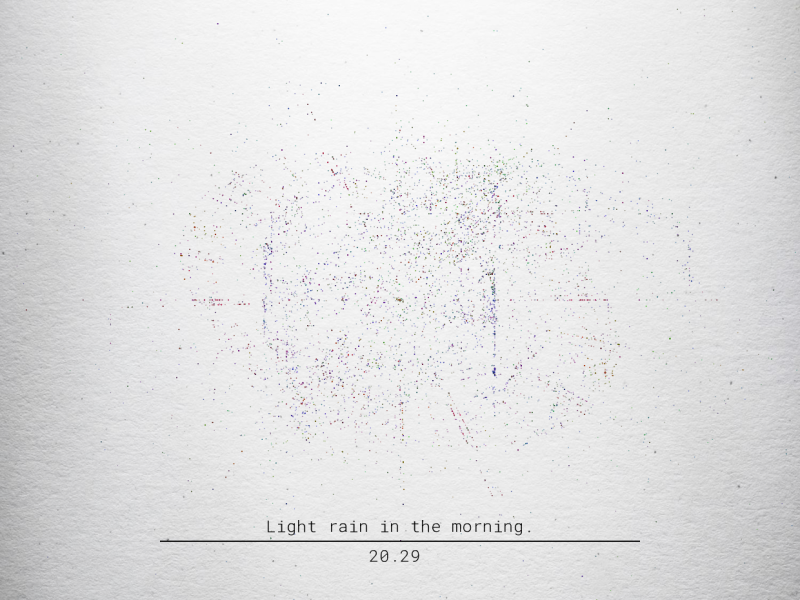
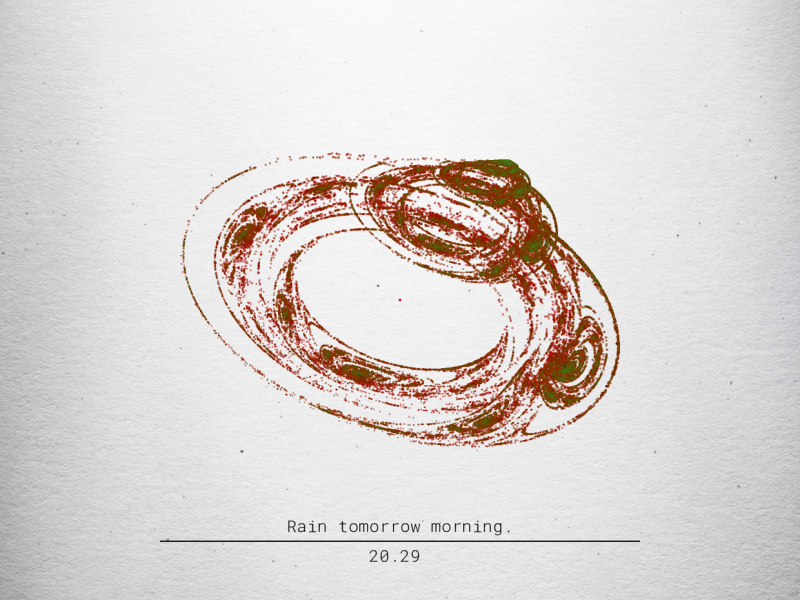
changed back to daily summery

Changed region(s): [[0.2188, 0.24, 0.7812, 0.75], [0.3438, 0.87, 0.6562, 0.9]]

diff --git a/dist/loadWeatherString.js b/dist/loadWeatherString.js
@@ -87,7 +87,7 @@ var loadWeatherString = exports.loadWeatherString = function () {
                     case 5:
                         weather = _context.sent;
                         return _context.abrupt('return', {
-                            summary: weather.daily.data[0].summary,
+                            summary: weather.hourly.summary,
                             tempMin: Math.round(weather.daily.data[0].temperatureLow),
                             tempMax: Math.round(weather.daily.data[0].temperatureHigh),
                             seed: weather.daily.data[0].summary

diff --git a/src/loadWeatherString.js b/src/loadWeatherString.js
@@ -43,7 +43,7 @@ export const loadWeatherString = async ({ lat = 40.3482922, lon = -74.7398824, d
     try {
         const weather = await requestWeather({ lat, lon, darkKey });
         return {
-            summary: weather.daily.data[0].summary,
+            summary: weather.hourly.summary,
             tempMin: Math.round(weather.daily.data[0].temperatureLow),
             tempMax: Math.round(weather.daily.data[0].temperatureHigh),
             seed: weather.daily.data[0].summary,
